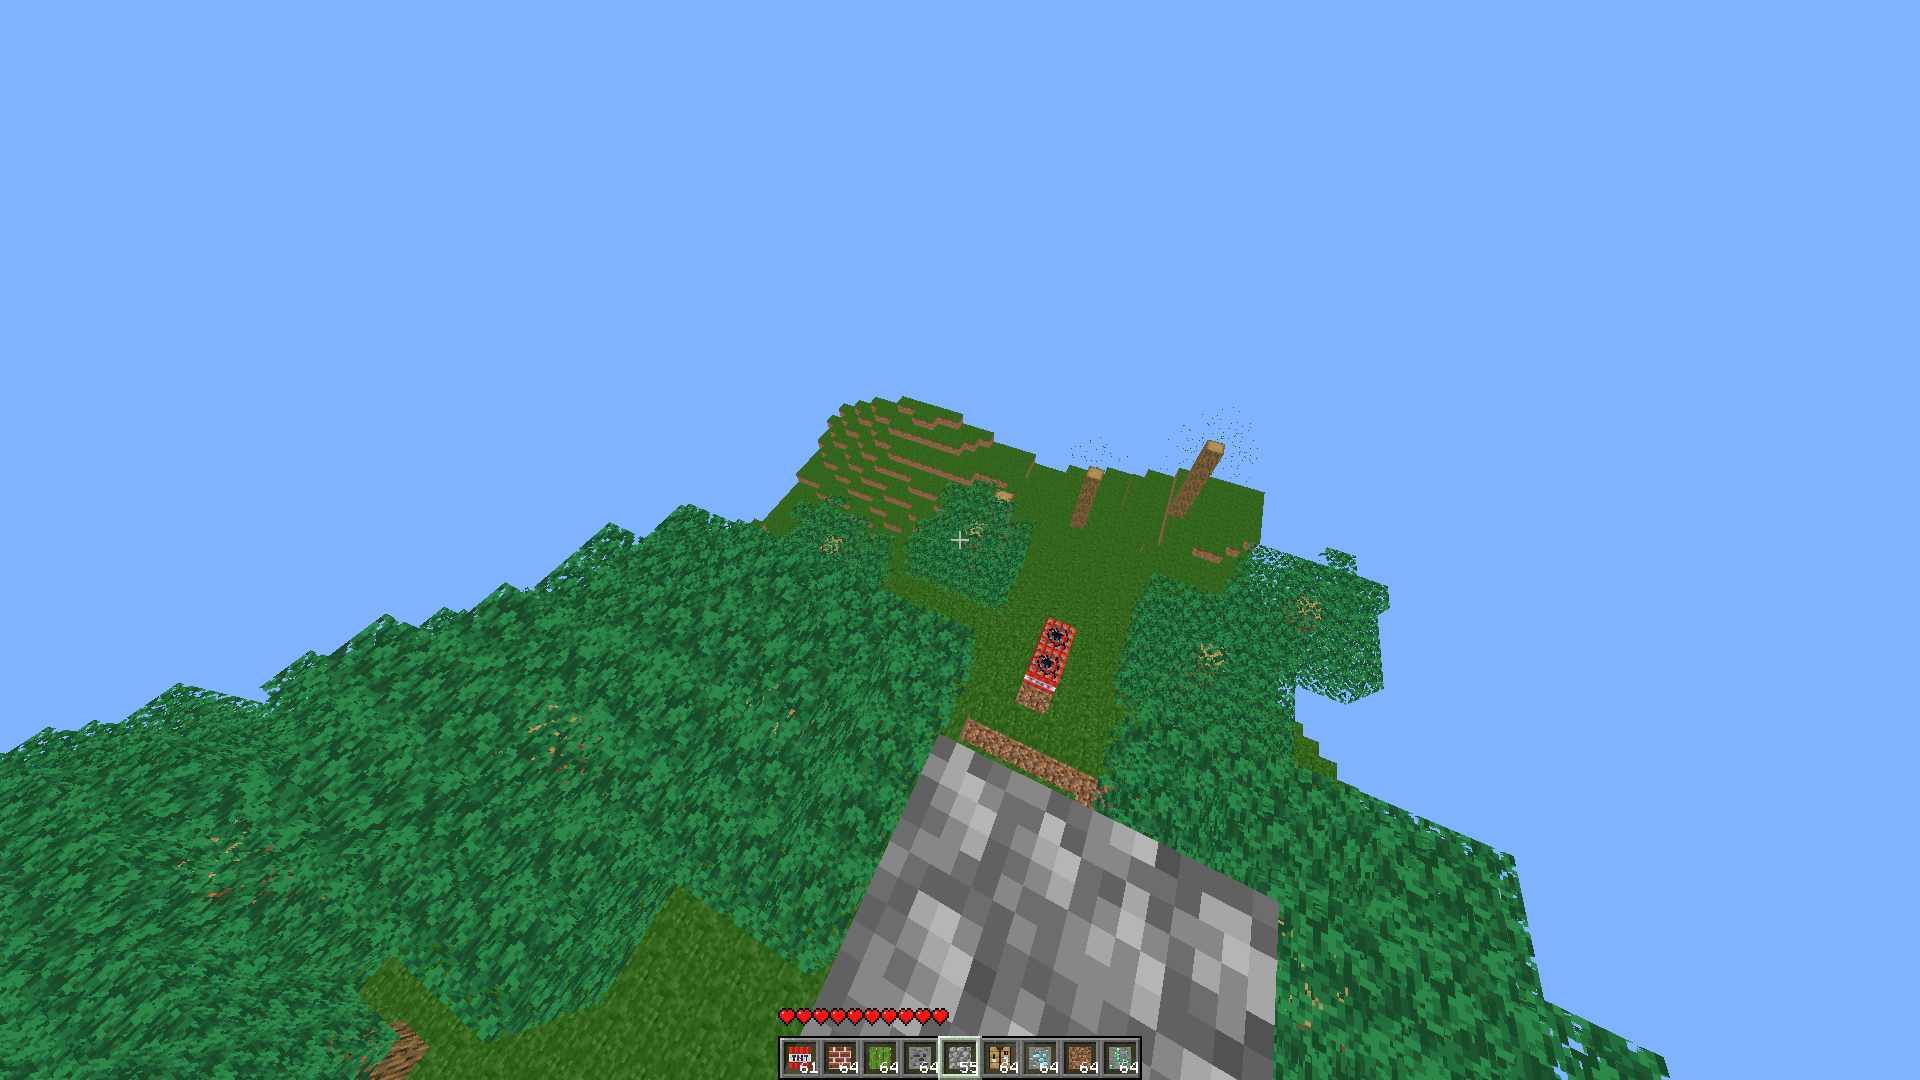
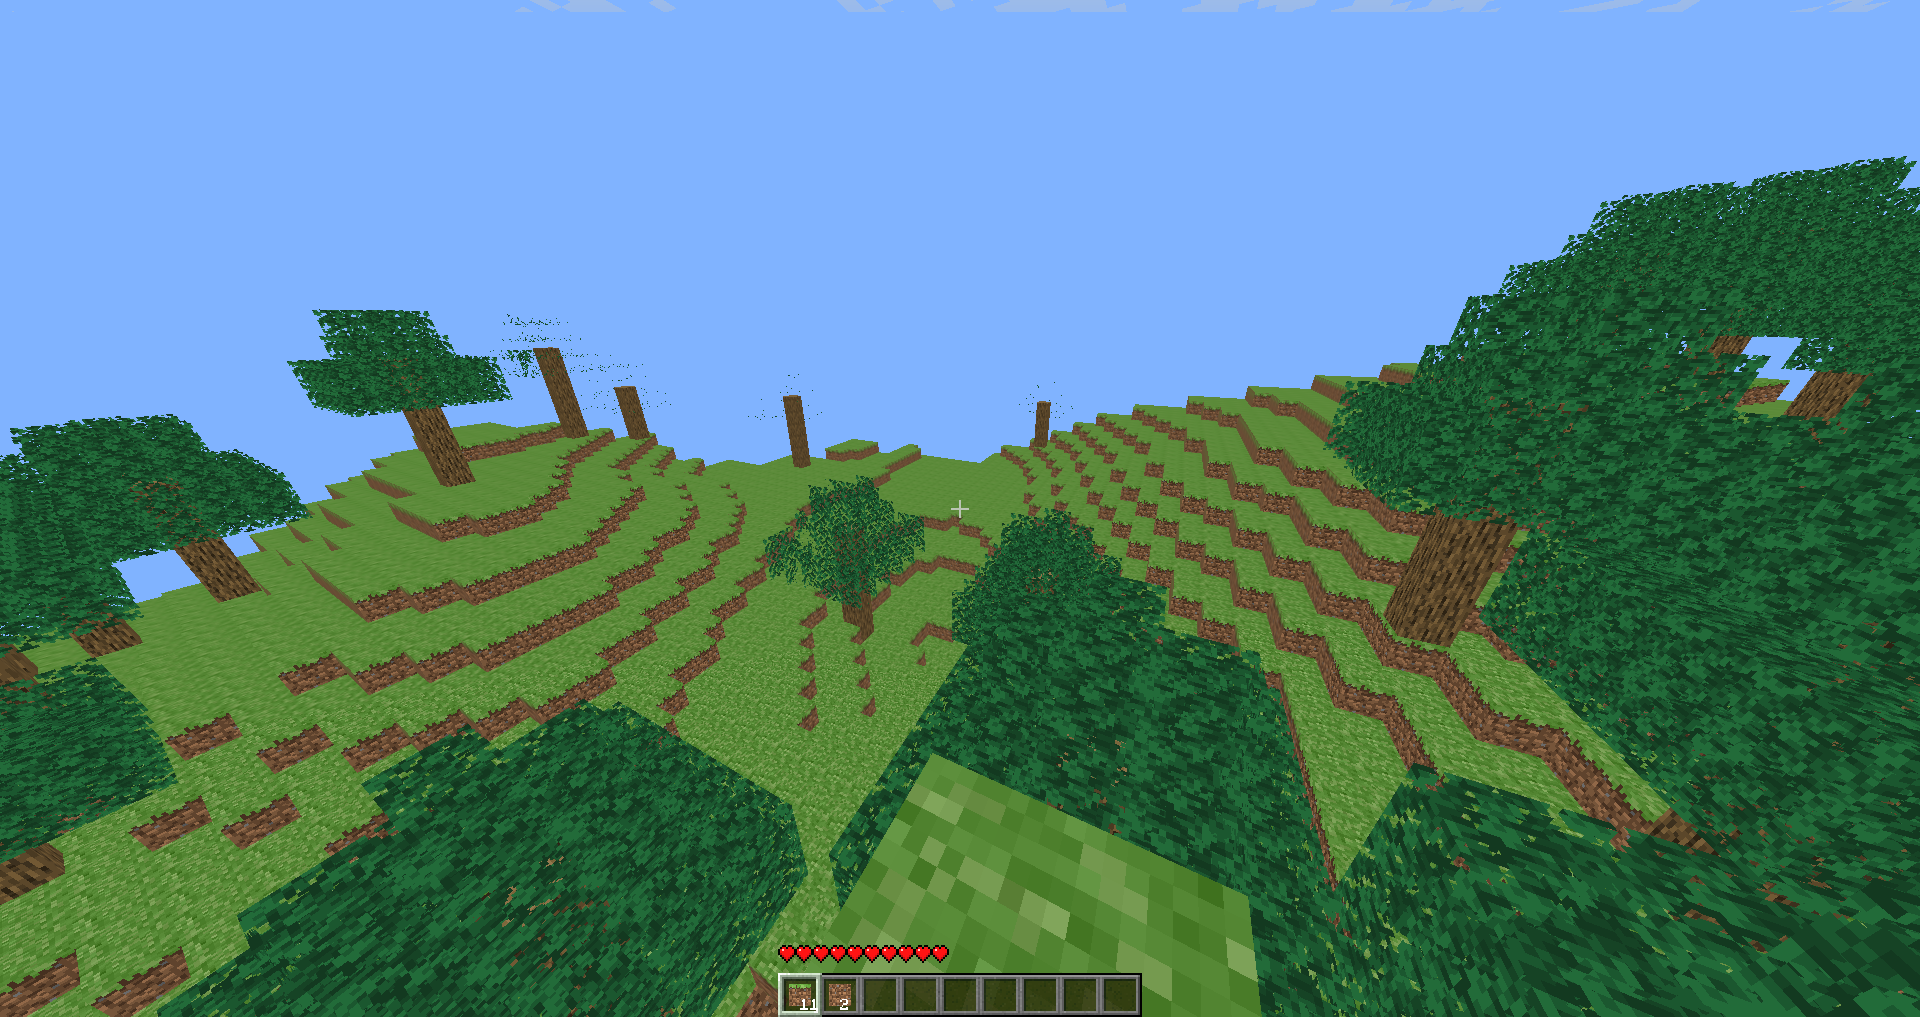
updated world generator

diff --git a/game/world/worldGenerator.py b/game/world/worldGenerator.py
@@ -1,5 +1,7 @@
 import random
+from collections import deque
 
+from game.world.Biomes import Biomes, getBiomeByTemp
 from game.world.PerlinNoise import PerlinNoise
 from settings import *
 
@@ -9,45 +11,68 @@ class worldGenerator:
         self.seed = seed
         self.chunks = {}
         self.worldPerlin = PerlinNoise(seed, mh=6)
-        self.parent = glClass
+        self.perlinBiomes = PerlinNoise(seed ** 2, mh=4)
+        self.gl = glClass
+
+        q = []
+        for x in range(-90, 90, CHUNK_SIZE[0]):
+            for y in range(-90, 90, CHUNK_SIZE[2]):
+                q.append((x, y))
+        q = sorted(q, key=lambda i: i[0] ** 2 + i[1] ** 2)
+        self.queue = deque(q)
+
+        self.start = len(self.queue)
+        self.blocks = {}
+        self.loading = deque()
 
     def add(self, p, t):
-        self.parent.cubes.add(p, t, now=True)
+        if p in self.blocks:
+            return
+        self.blocks[p] = t
+        self.loading.append((p, t))
+        self.gl.cubes.add(p, t)
 
-    def genChunk(self, XX, YY, player):
+    def genChunk(self, player):
         if player.hp == -1:
             player.hp = 20
 
-        sx, sy, sz = CHUNK_SIZE
-        xx, zz = XX * (sx - 1), YY * (sz - 1)
+        if self.queue:
+            self.gen(*self.queue.popleft())
 
-        for x in range(xx, xx + 1):
-            for z in range(zz, zz + 1):
-                sand = False
+            while self.loading:
+                p, t = self.loading.popleft()
+                self.gl.cubes.updateCube(self.gl.cubes.cubes[p])
+
+    def gen(self, xx, zz):
+        sy = CHUNK_SIZE[1]
+
+        for x in range(xx, xx + CHUNK_SIZE[0]):
+            for z in range(zz, zz + CHUNK_SIZE[2]):
                 y = self.worldPerlin(x, z) + sy
+                biomePerlin = self.perlinBiomes(x, z) * 3
+                activeBiome = Biomes(getBiomeByTemp(biomePerlin))
+
+                self.add((x, y, z), activeBiome.getBiomeGrass())
+                if self.gl.startPlayerPos == [0, -90, 0]:
+                    self.gl.startPlayerPos = [x, y + 2, z]
+
                 if random.randint(0, 120) == 20 and y > sy - 5:
                     self.spawnTree(x, y, z)
-                if y < sy - 15:
-                    self.add((x, y, z), "sand")
-                    sand = True
-                else:
-                    self.add((x, y, z), "grass")
-                    if self.parent.startPlayerPos == [0, -90, 0]:
-                        self.parent.startPlayerPos = [x, y + 2, z]
+
                 self.add((x, 0, z), "bedrock")
                 for i in range(1, y):
                     if i > y - random.randint(5, 10):
-                        self.add((x, i, z), "sandstone" if sand else "dirt")
+                        self.add((x, i, z), activeBiome.getBiomeDirt())
                     else:
-                        self.add((x, i, z), "stone")
+                        self.add((x, i, z), activeBiome.getBiomeStone())
                     if i < sy - 20:
                         self.genOre(x, i, z)
 
     def genOre(self, x, y, z):
         if random.randint(0, 5753) != random.randint(0, 1575):
             return
-        r1 = random.randint(1, 7)
-        r2 = random.randint(r1, r1 + 7)
+        r1 = random.randint(-1, 2)
+        r2 = random.randint(-2, 2)
         ore = self.getOreByY(y)
 
         for xi in range(r1, r2):

diff --git a/main.py b/main.py
@@ -134,11 +134,11 @@ def pauseMenu(mc):
 
 def genWorld(mc):
     global IN_MENU, PAUSE, resizeEvent
+    chunkCnt = 200
 
-    scene.set2d()
     tex = gui.GUI_TEXTURES["options_background"]
     tex2 = gui.GUI_TEXTURES["black"]
-    if scene.chunkg == len(scene.worldSp) or resizeEvent:
+    if scene.worldGen.start == len(scene.worldGen.queue) or resizeEvent:
         for x in range(0, scene.WIDTH, tex.width):
             for y in range(0, scene.HEIGHT, tex.height):
                 tex.blit(x, y)
@@ -153,11 +153,12 @@ def genWorld(mc):
                 tex2.blit(ix, iy)
 
     scene.genWorld()
-    if len(scene.worldSp) - scene.chunkg > 1:#1220:
+    if scene.worldGen.start - len(scene.worldGen.queue) > chunkCnt:
+        scene.genTime = 16
         IN_MENU = False
         PAUSE = False
 
-    proc = round((len(scene.worldSp) - scene.chunkg) * 100 / 1)#1220)
+    proc = round((scene.worldGen.start - len(scene.worldGen.queue)) * 100 / chunkCnt)
     drawInfoLabel(scene, "Loading world...", xx=scene.WIDTH // 2, yy=scene.HEIGHT // 2, style=[('', '')],
                   size=12, anchor_x='center')
     drawInfoLabel(scene, f"Generating terrain {proc}%...", xx=scene.WIDTH // 2, yy=scene.HEIGHT // 2 - 39,
@@ -587,7 +588,10 @@ while True:
                                  f"XYZ: {round(player.x(), 3)} / {round(player.y(), 5)} / {round(player.z(), 3)}\n"
                                  f"Block: {round(player.x())} / {round(player.y())} / {round(player.z())}\n"
                                  f"Facing: {player.rotation[1]} / {player.rotation[0]}\n"
-                                 f"Looking at: {scene.lookingAt}", shadow=False, label_color=(224, 224, 224), xx=3)
+                                 f"Looking at: {scene.lookingAt}\n"
+                                 f"Count of chunks: {scene.worldGen.start - len(scene.worldGen.queue)} "
+                                 f"({scene.worldGen.start})",
+                          shadow=False, label_color=(224, 224, 224), xx=3)
         pygame.display.flip()
         clock.tick(MAX_FPS)
     elif PAUSE and not IN_MENU:

diff --git a/game/entity/Player.py b/game/entity/Player.py
@@ -177,13 +177,13 @@ class Player:
             if 3 < self.playerFallY:
                 # self.gl.sound.playSound("oof", 0.8)
                 hp -= 1
-                if self.playerFallY < 6:
+                if self.playerFallY < 10:
                     hp -= 3
-                elif self.playerFallY < 10:
+                elif self.playerFallY < 16:
                     hp -= 5
-                elif self.playerFallY < 17:
+                elif self.playerFallY < 23:
                     hp -= 8
-                elif self.playerFallY < 25:
+                elif self.playerFallY < 30:
                     hp -= 11
                 else:
                     hp = 0
@@ -215,8 +215,18 @@ class Player:
             self.gl.destroy.destroyStage = -1
 
         if button == 2 and blockByVec[0]:
-            self.inventory.inventory[self.inventory.activeInventory] = [self.gl.cubes.cubes[blockByVec[0]].name, 64]
-            self.gl.gui.showText(self.inventory.inventory[self.inventory.activeInventory][0])
+            if self.inventory.inventory[self.inventory.activeInventory][1] == 0:
+                itm = -1
+                for item in self.inventory.inventory.items():
+                    i = item[1]
+                    if i[0] == self.gl.cubes.cubes[blockByVec[0]].name and i[1] != 0:
+                        itm = item[0]
+                        break
+                if itm != -1:
+                    self.inventory.inventory[self.inventory.activeInventory] = [
+                        self.inventory.inventory[itm][0], self.inventory.inventory[itm][1]]
+                    self.inventory.inventory[itm][1] = 0
+                    self.gl.gui.showText(self.inventory.inventory[itm][0])
         if button == 3:
             if blockByVec[0] and self.shift <= 0:
                 if blockByVec[0] in self.gl.cubes.cubes:

diff --git a/game/world/Biomes.py b/game/world/Biomes.py
@@ -1,0 +1,49 @@
+all_biomes = ["forest", "desert", "ocean", "taiga", "mountains"]
+
+
+def getBiomeByTemp(temp):
+    if 30 > temp > 5:
+        return all_biomes[0]  # Forest
+    if temp > 30:
+        return all_biomes[1]  # Desert
+    if 5 > temp > -5:
+        return all_biomes[4]  # mountains
+
+    return all_biomes[3]  # Taiga
+
+
+class Biomes:
+    def __init__(self, biome):
+        self.biome = biome
+
+    def getBiomeGrass(self):
+        if self.biome == "desert":
+            return "sand"
+        if self.biome == "ocean":
+            return "dirt"
+        if self.biome == "forest" or self.biome == "taiga" or self.biome == "mountains":
+            return "grass"
+
+    def getBiomePlant(self):
+        if self.biome == "desert":
+            return "cactus"
+        if self.biome == "forest" or self.biome == "taiga" or self.biome == "mountains":
+            return "tree"
+
+        return ""
+
+    def getBiomeDirt(self):
+        if self.biome == "desert":
+            return "sand"
+        if self.biome == "forest" or self.biome == "taiga" or self.biome == "mountains":
+            return "dirt"
+        if self.biome == "ocean":
+            return "water"
+
+    def getBiomeStone(self):
+        if self.biome == "desert":
+            return "sandstone"
+        if self.biome == "forest" or self.biome == "taiga" or self.biome == "mountains":
+            return "stone"
+        if self.biome == "ocean":
+            return "water"

diff --git a/game/Scene.py b/game/Scene.py
@@ -1,3 +1,6 @@
+import gc
+import threading
+
 from OpenGL.GLU import *
 from pyglet.gl import *
 
@@ -38,6 +41,7 @@ class Scene:
         self.startPlayerPos = [0, -90, 0]
         self.panorama = {}
         self.drawCounter = 0
+        self.genTime = 1
         self.in_water = False
 
         self.resetScene()
@@ -50,8 +54,6 @@ class Scene:
             "showCrosshair": True,
         }
 
-        self.worldSp = spiral(CHUNKS_RENDER_DISTANCE)
-        self.chunkg = len(self.worldSp)
         self.clouds = Clouds(self)
         self.droppedBlock = droppedBlock(self)
         self.worldGen = worldGenerator(self, randint(434, 434343454))
@@ -168,11 +170,9 @@ class Scene:
 
     def genWorld(self):
         self.drawCounter += 1
-        if self.drawCounter > 1 and self.chunkg > 0:
+        if self.drawCounter > self.genTime:
             self.drawCounter = 0
-            x, y = self.worldSp[self.chunkg]
-            self.chunkg -= 1
-            self.worldGen.genChunk(CHUNKS_RENDER_DISTANCE // 2 - x, CHUNKS_RENDER_DISTANCE // 2 - y, self.player)
+            self.worldGen.genChunk(self.player)
 
     def updateScene(self):
         # self.time += 1 * clock.get_fps() / 1000
@@ -229,6 +229,8 @@ class Scene:
         glColor3d(1, 1, 1)
         glPopMatrix()
         self.set2d()
+
+        self.blockSound.pickUpAlreadyPlayed = False
 
         for i in self.updateEvents:
             i()

diff --git a/game/blocks/droppedBlock.py b/game/blocks/droppedBlock.py
@@ -28,7 +28,8 @@ class droppedBlock:
             for xs in (1, 0, -1):
                 for ys in (1, 0, -1, -2):
                     for zs in (1, 0, -1):
-                        if roundPos((pp[0] + xs, pp[1] + ys, pp[2] + zs)) == roundPos((x + kx, y + ky, z + kz)):
+                        if roundPos((pp[0] + xs, pp[1] + ys, pp[2] + zs)) == roundPos((x + kx, y + ky, z + kz)) and \
+                                self.gl.player.hp > 0:
                             self.blocks.pop(i[0])
                             self.gl.blockSound.playPickUpSound()
                             self.gl.player.inventory.addBlock(i[1][1])
@@ -61,7 +62,8 @@ class droppedBlock:
 
             for e, j in enumerate(vertexes):
                 r1 = (
-                     (j[0], j[1], j[2], 1), (j[3], j[4], j[5], 1), (j[6], j[7], j[8], 1), (j[9], j[10], j[11], 1)) @ rot
+                         (j[0], j[1], j[2], 1), (j[3], j[4], j[5], 1), (j[6], j[7], j[8], 1),
+                         (j[9], j[10], j[11], 1)) @ rot
                 vertexes[e] = (r1[0][0] + kx, r1[0][1] + ky, r1[0][2] + kz, r1[1][0] + kx, r1[1][1] + ky,
                                r1[1][2] + kz, r1[2][0] + kx, r1[2][1] + ky, r1[2][2] + kz,
                                r1[3][0] + kx, r1[3][1] + ky, r1[3][2] + kz)

diff --git a/functions.py b/functions.py
@@ -88,23 +88,6 @@ def adjacent(x, y, z):
     for p in ((x - 1, y, z), (x + 1, y, z), (x, y - 1, z), (x, y + 1, z), (x, y, z - 1), (x, y, z + 1)): yield p
 
 
-def spiral(n):
-    dx, dy = 1, 0
-    x, y = 0, 0
-    arr = [[None] * n for _ in range(n)]
-    arr1 = {}
-    for i in range(1, n ** 2 + 1):
-        arr[x][y] = i
-        arr1[i] = (x, y)
-        nx, ny = x + dx, y + dy
-        if 0 <= nx < n and 0 <= ny < n and not arr[nx][ny]:
-            x, y = nx, ny
-        else:
-            dx, dy = -dy, dx
-            x, y = x + dx, y + dy
-    return arr1
-
-
 def drawInfoLabel(gl, text, xx=0, yy=0, style=None, size=15, anchor_x='left', anchor_y='baseline', opacity=1, rotate=0,
                   label_color=(255, 255, 255), shadow_color=(56, 56, 56), scale=0, shadow=True):
     if style is None:

diff --git a/game/sound/BlockSound.py b/game/sound/BlockSound.py
@@ -5,6 +5,7 @@ class BlockSound:
     def __init__(self, gl):
         self.gl = gl
         self.cntr = 0
+        self.pickUpAlreadyPlayed = False
 
     def getBlockSound(self, blockName):
         blName = "grass"
@@ -59,5 +60,7 @@ class BlockSound:
         chnl.set_volume(self.gl.sound.volume)
 
     def playPickUpSound(self):
-        chnl = self.gl.sound.BLOCKS_SOUND["pickUp"].play()
-        chnl.set_volume(self.gl.sound.volume)
+        if not self.pickUpAlreadyPlayed:
+            chnl = self.gl.sound.BLOCKS_SOUND["pickUp"].play()
+            chnl.set_volume(self.gl.sound.volume)
+            self.pickUpAlreadyPlayed = True

diff --git a/game/world/Clouds.py b/game/world/Clouds.py
@@ -11,7 +11,7 @@ class Clouds:
     def update(self):
         sx, sz = 1000, 1000
 
-        x, y, z = -(sx / 2), 100, -(sz / 2) + self.xz
+        x, y, z = -(sx / 2), 140, -(sz / 2) + self.xz
         X, Y, Z = x + sx, y, z + sz
 
         tex_coords = ('t2f', (0, 0, 1, 0, 1, 1, 0, 1))

diff --git a/settings.py b/settings.py
@@ -21,4 +21,4 @@ FOV = 100
 RENDER_DISTANCE = 100
 
 CHUNKS_RENDER_DISTANCE = 900
-CHUNK_SIZE = (2, 50, 2)
+CHUNK_SIZE = (4, 60, 4)
